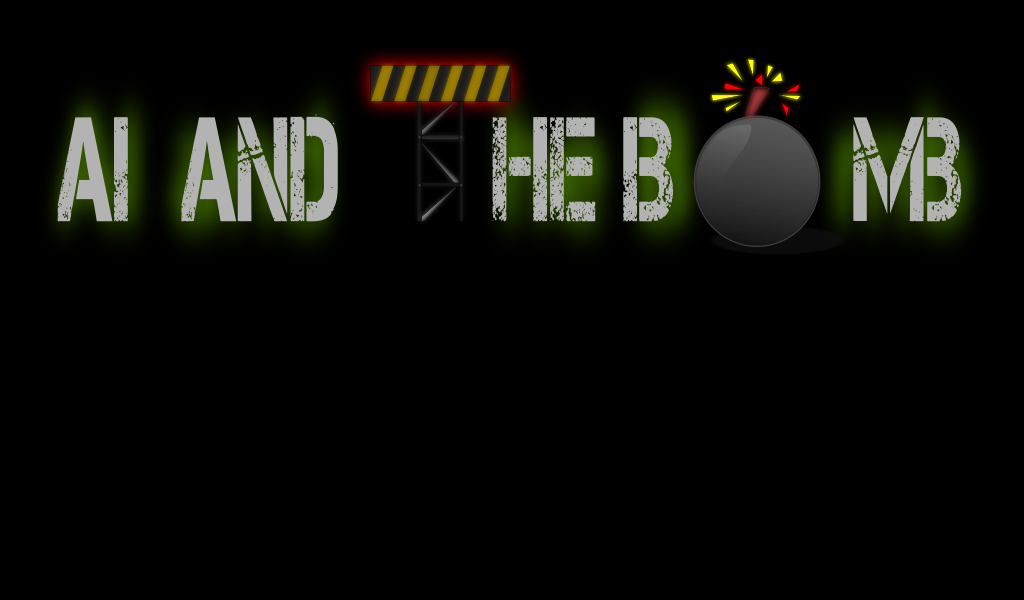
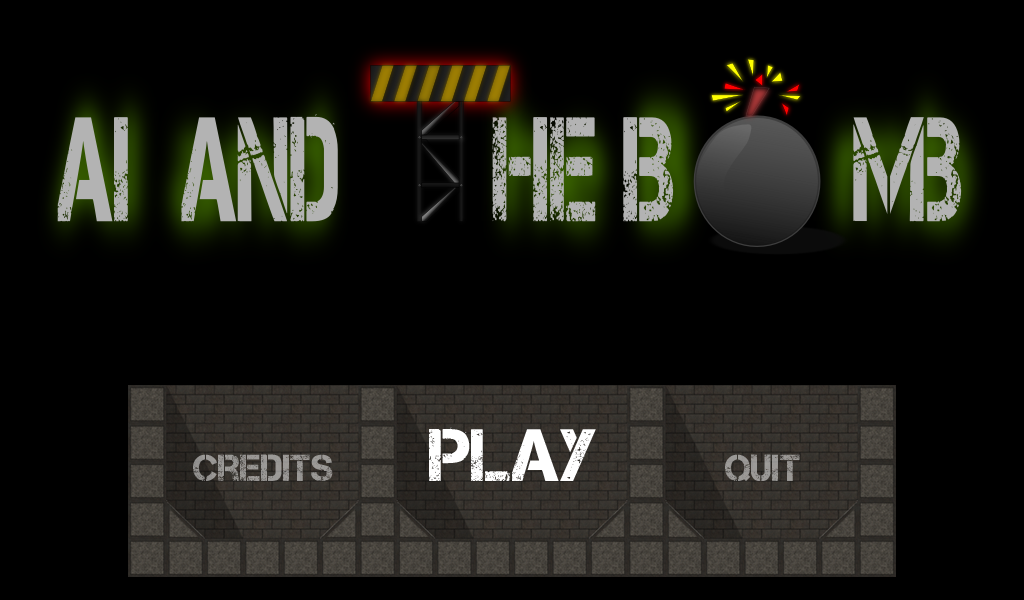
Created menu.

Changed region(s): [[0.125, 0.63, 0.875, 0.96]]

diff --git a/GGJ2011/src/Entity.cpp b/GGJ2011/src/Entity.cpp
@@ -57,7 +57,12 @@ void Entity::InitializePhysics() {
 	btScalar mass(1.f);
 	btVector3 local_inertia(0, 0, 0);
 
-	mCollisionShape = boost::shared_ptr<btCollisionShape>(new btBoxShape(btVector3(1.5*mScale, 1.5*mScale, 1)));
+	if(mUID.substr(0,5) == "empty") {
+		mCollisionShape = boost::shared_ptr<btCollisionShape>(new btBoxShape(btVector3(15*mScale, 1*mScale, 1)));
+	}
+	else {
+		mCollisionShape = boost::shared_ptr<btCollisionShape>(new btBoxShape(btVector3(1.5*mScale, 1.5*mScale, 1)));
+	}
 
 	mCollisionShape->calculateLocalInertia(mass, local_inertia);
 	transform.setOrigin(btVector3(mPosition.x, mPosition.y, 0));
@@ -291,10 +296,18 @@ bool Entity::OnCollide(GameObject* other) {
 	if(mUID == "box") {
 		GameApp::get_mutable_instance().GetResourceManagerPtr()->PlaySound("collide");
 
-		if(other != NULL && other->ToString() == "entity" && ((Entity*)other)->GetUID() == "target") {
-			std::cout << "Level complete!" << std::endl;
-			GameApp::get_mutable_instance().GetWorldPtr()->LoadNextLevel();
-			return false;
+		if(other != NULL && other->ToString() == "entity") {
+			std::string uid = ((Entity*)other)->GetUID();
+			if(uid == "target" || uid == "empty-target") {
+				std::cout << "Level complete!" << std::endl;
+				GameApp::get_mutable_instance().GetWorldPtr()->LoadNextLevel();
+				return false;
+			} else if(uid == "empty-quit") {
+				exit(0);
+			}  else if(uid == "empty-credits") {
+				std::cout << "IMPLEMENT CREDITS!" << std::endl;
+				exit(0);
+			}
 		}
 	}
 	return true;

diff --git a/GGJ2011/src/GameApp.cpp b/GGJ2011/src/GameApp.cpp
@@ -60,6 +60,8 @@ void GameApp::Init() {
 	mResourceManager.AddImage(data / "gfx", "cursor_default.png", 32*METERS_PER_PIXEL, 32*METERS_PER_PIXEL);
 	// -- add new images here
 	mResourceManager.AddImage(data / "gfx" / "maps", "1_lvl.png", 1408*METERS_PER_PIXEL, 832*METERS_PER_PIXEL);
+	mResourceManager.AddImage(data / "gfx", "titlescreen.png", 1024*METERS_PER_PIXEL, 600*METERS_PER_PIXEL);
+	mResourceManager.AddImage(data / "gfx", "empty.png", 150*METERS_PER_PIXEL, 10*METERS_PER_PIXEL);
 
 	mResourceManager.AddSoundBuffer(data / "snd", "collide.ogg", "collide");
 
@@ -99,7 +101,7 @@ void GameApp::Run() {
 		float time_delta = mClock.GetElapsedTime();
 		mClock.Reset();
 
-		if(mAppMode == AM_PLAY)
+		if(mAppMode == AM_PLAY && mWorld.GetCurrentLevel() != 0)
 			mTotalTime += time_delta;
 
 		// SFML access class for real-time input
@@ -188,7 +190,7 @@ void GameApp::Run() {
 				t.SetPosition(floor(WIDTH / 2 - t.GetRect().Width / 2), 80);
 				t.SetFont(mResourceManager.GetFont("custom"));
 				mRenderWin->Draw(t);
-			} else {
+			} else if(mWorld.GetCurrentLevel() != 0){
 				boost::posix_time::time_duration td = boost::posix_time::seconds(mTotalTime);
 				sf::Text t(boost::lexical_cast<std::string>(td.minutes()) + ":" + leadingZeros(td.seconds(), 2) );
 				t.SetCharacterSize(50);

diff --git a/GGJ2011/src/World.cpp b/GGJ2011/src/World.cpp
@@ -41,6 +41,8 @@ void World::Initialize(const boost::filesystem::path& data_path) {
 
 	mDebugDraw = boost::shared_ptr<DebugDraw> (new DebugDraw(GameApp::get_mutable_instance().GetRenderWindowPtr()));
 
+	mDebugDraw->setDebugMode(btIDebugDraw::DBG_MAX_DEBUG_DRAW_MODE);
+
 	mDynamicsWorld->setDebugDrawer(mDebugDraw.get());
 
 	mDynamicsWorld->setInternalTickCallback(myTickCallback, static_cast<void *>(this));
@@ -874,6 +876,10 @@ void World::SetCurrentRail(Rail* rail) {
 
 const std::string World::GetCurrentLevelFile() {
 	return mDataPath.string()+"level-"+boost::lexical_cast<std::string>(mCurrentLevel)+".info";
+}
+
+int World::GetCurrentLevel() const {
+	return mCurrentLevel;
 }
 
 void World::LoadNextLevel() {

diff --git a/GGJ2011/src/World.hpp b/GGJ2011/src/World.hpp
@@ -88,6 +88,7 @@ public:
 	void SetCurrentRail(Rail* rail);
 
 	const std::string GetCurrentLevelFile();
+	int GetCurrentLevel() const;
 	void LoadNextLevel();
 private:
 	boost::ptr_vector<Entity> mEntities;
